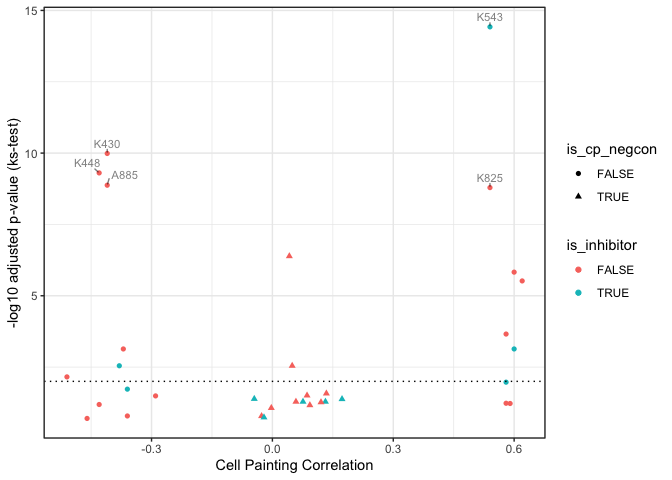
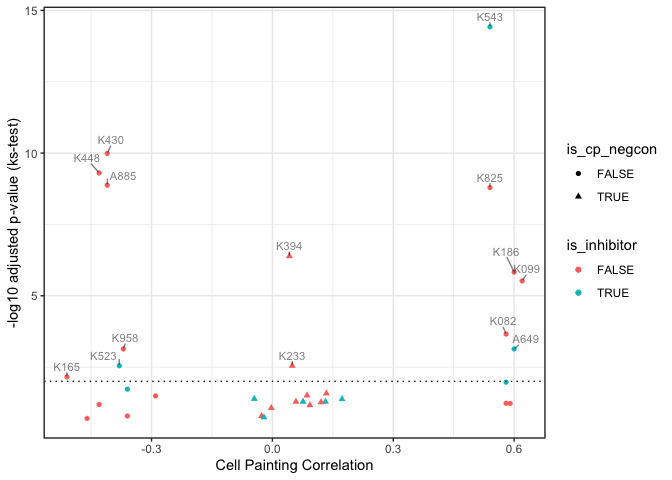
lower threshold

diff --git a/p38a/knit_notebooks/2.inspect-single-cell.md b/p38a/knit_notebooks/2.inspect-single-cell.md
@@ -425,7 +425,7 @@ statistics_agg <-
 ```
 
 ``` r
-plot_paper_figure <- function(test_type, annotate_column, strong_effect_threshold = 8) {
+plot_paper_figure <- function(test_type, annotate_column, strong_effect_threshold = 2) {
   
   statistics_agg <-
     statistics_agg %>%
@@ -450,7 +450,7 @@ plot_paper_figure <- function(test_type, annotate_column, strong_effect_threshol
       )
   }
   
-  if (annotate_column == "strong_effect") {
+  if (annotate_column == "significant") {
     p <- p +
       ggrepel::geom_text_repel(
         data = statistics_agg %>% filter(-log10(pval_adj) > strong_effect_threshold),
@@ -497,7 +497,7 @@ print(p)
 ![](2.inspect-single-cell_files/figure-gfm/unnamed-chunk-32-1.png)<!-- -->
 
 ``` r
-p <- plot_paper_figure("ks", "strong_effect")
+p <- plot_paper_figure("ks", "significant")
 
 print(p)
 ```
@@ -513,7 +513,7 @@ print(p)
 ![](2.inspect-single-cell_files/figure-gfm/unnamed-chunk-34-1.png)<!-- -->
 
 ``` r
-p <- plot_paper_figure("t", "strong_effect")
+p <- plot_paper_figure("t", "significant")
 
 print(p)
 ```
